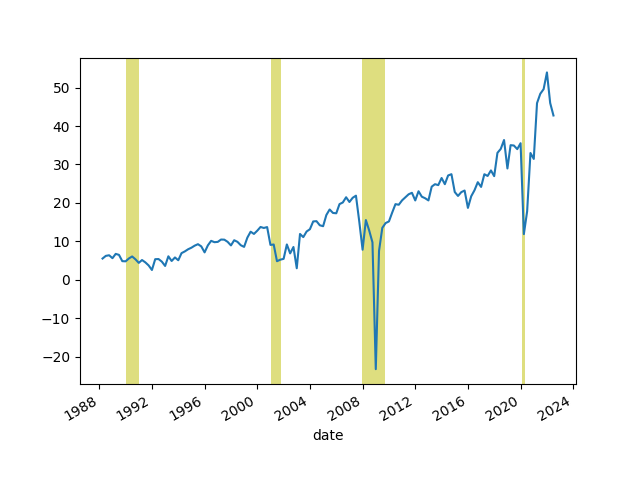
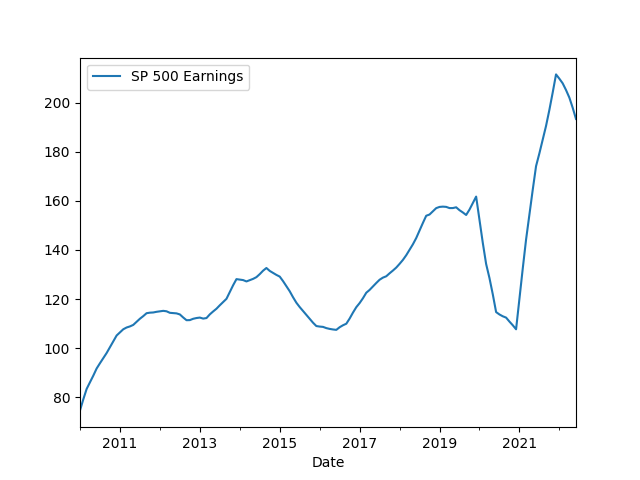
--

diff --git a/en/2019/05/stats.md b/en/2019/05/stats.md
@@ -352,22 +352,23 @@ DATE
 
 ```python
 df = u.get_quandl("MULTPL/SP500_EARNINGS_MONTH")
+df.columns = ['SP 500 Earnings']
 print (df.tail(5))
-df.plot()
-plt.savefig('sp500_earnings.png')
+df[df.index > '2010-01-01'].plot()
+plt.savefig('sp500-earnings.png')
 ```
 
 ```text
-             Value
-Date              
-2022-02-28  207.87
-2022-03-31  205.14
-2022-04-30  202.06
-2022-05-31  197.94
-2022-06-30  193.36
+            SP 500 Earnings
+Date                       
+2022-02-28           207.87
+2022-03-31           205.14
+2022-04-30           202.06
+2022-05-31           197.94
+2022-06-30           193.36
 ```
 
-![](sp500_earnings.png)
+![](sp500-earnings.png)
 
 SP 500 Earnings Per Share
 
